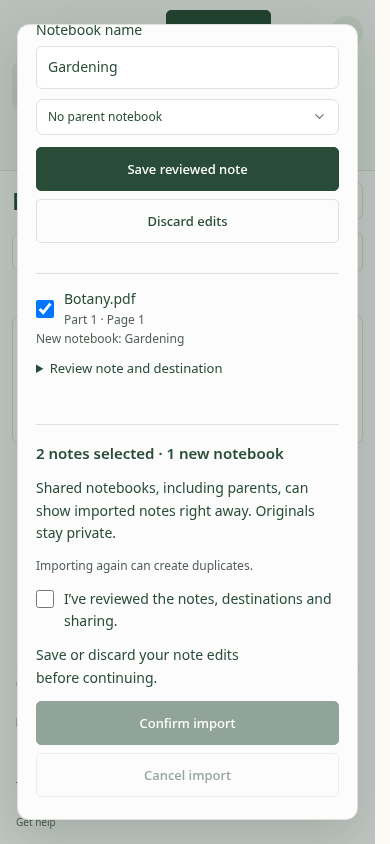
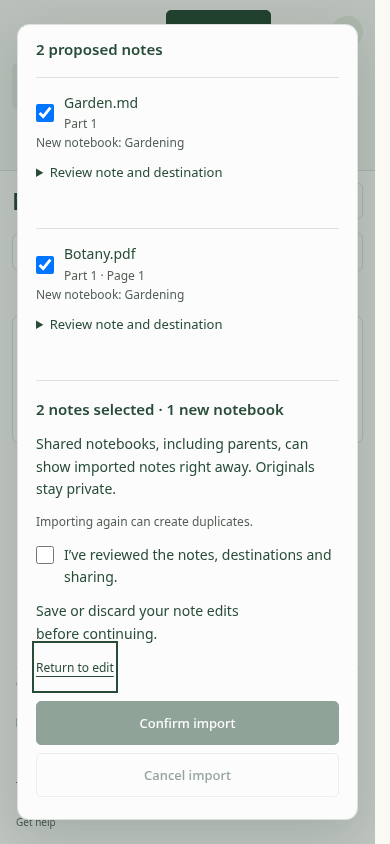
fix(import): return keyboard focus to unsaved reviews

Changed region(s): [[0.0615, 0.0308, 0.8923, 0.8318], [0.4615, 0.7701, 0.6154, 0.8009], [0.8, 0.7085, 0.8308, 0.7393]]

diff --git a/packages/website/tests/imports.spec.ts b/packages/website/tests/imports.spec.ts
@@ -221,16 +221,33 @@ for (const width of [1440, 390, 320])
     });
     const cancelImport = dialog.getByRole("button", { name: "Cancel import" });
     await expect(storageLink).toHaveCount(0);
-    await expect(
-      dialog.getByRole("button", { name: "View files & storage" }),
-    ).toBeDisabled();
     await expect(cancelImport).toBeDisabled();
+    const editor = first.getByRole("textbox", {
+      name: "Content from Garden.md",
+    });
+    await first.locator("summary").click();
+    const consent = dialog.getByLabel(
+      "I’ve reviewed the notes, destinations and sharing.",
+    );
+    await consent.focus();
+    await page.keyboard.press("Tab");
+    const recover = dialog
+      .locator(".import-confirm")
+      .getByRole("button", { name: "Return to edit" });
+    await expect(recover).toBeFocused();
     if (width === 390) {
       await cancelImport.scrollIntoViewIfNeeded();
       await page.screenshot({
         path: testInfo.outputPath("unsaved-review-390.png"),
       });
     }
+    expect(
+      await dialog.evaluate((el) => el.scrollWidth <= el.clientWidth),
+    ).toBe(true);
+    await page.keyboard.press("Enter");
+    await expect(editor).toBeFocused();
+    await expect(editor).toBeInViewport();
+    await expect(editor).toHaveValue(/Check the soil first\./);
     await expect(
       dialog.getByRole("button", { name: "Confirm import", exact: true }),
     ).toBeDisabled();
@@ -242,6 +259,20 @@ for (const width of [1440, 390, 320])
       .click();
     await second.getByRole("combobox").first().click();
     await page.getByRole("option", { name: "Research", exact: true }).click();
+    const topRecovery = dialog
+      .locator(".import-intro")
+      .getByRole("button", { name: "Return to edit" });
+    await topRecovery.focus();
+    const secondEditor = second.getByRole("textbox", {
+      name: "Content from Botany.pdf",
+    });
+    await expect(secondEditor).not.toBeInViewport();
+    await page.keyboard.press("Space");
+    await expect(secondEditor).toBeFocused();
+    await expect(secondEditor).toBeInViewport();
+    await expect(second.getByRole("combobox").first()).toContainText(
+      "Research",
+    );
     await second.getByRole("button", { name: "Save reviewed note" }).click();
     await expect(
       second.getByRole("button", { name: "Save reviewed note" }),

diff --git a/packages/website/src/components/dashboard/import-notes-panel.tsx b/packages/website/src/components/dashboard/import-notes-panel.tsx
@@ -182,7 +182,7 @@ function DraftReview({
         </span>
       </label>
       <p className="import-small">{destinationLabel}</p>
-      <details>
+      <details data-unsaved={dirty || undefined}>
         <summary>Review note and destination</summary>
         <label>
           Note content
@@ -283,6 +283,7 @@ export function ImportNotesPanel({
   const chooser = useRef<HTMLInputElement>(null);
   const chooseFiles = useRef<HTMLButtonElement>(null);
   const intro = useRef<HTMLParagraphElement>(null);
+  const panel = useRef<HTMLDivElement>(null);
   const inFlight = useRef(false);
   const controller = useRef<AbortController | null>(null);
   const upload = useRef<{
@@ -472,13 +473,32 @@ export function ImportNotesPanel({
         {batch.status === "applying" ? "Stop import" : "Cancel import"}
       </Button>
     );
+  const returnToEdit = (
+    <button
+      type="button"
+      className="text-button"
+      disabled={busy}
+      onClick={() => {
+        const review = panel.current?.querySelector<HTMLDetailsElement>(
+          "details[data-unsaved]",
+        );
+        if (!review) return;
+        review.open = true;
+        review.querySelector("textarea")?.focus();
+      }}
+    >
+      Return to edit
+    </button>
+  );
   return (
-    <div className="import-notes">
+    <div className="import-notes" ref={panel}>
       <div className="import-intro">
         <p ref={intro} tabIndex={-1}>
           Review files before saving notes.
         </p>
-        {busy || dirty ? (
+        {dirty ? (
+          returnToEdit
+        ) : busy ? (
           <button type="button" className="text-button" disabled>
             View files &amp; storage
           </button>
@@ -897,9 +917,12 @@ export function ImportNotesPanel({
                 I’ve reviewed the notes, destinations and sharing.
               </label>
               {dirty && (
-                <p role="status">
-                  Save or discard your note edits before continuing.
-                </p>
+                <div>
+                  <p role="status">
+                    Save or discard your note edits before continuing.
+                  </p>
+                  {returnToEdit}
+                </div>
               )}
               <div className="import-actions">
                 <Button

diff --git a/documentation/design/screenshots/note-imports/README.md b/documentation/design/screenshots/note-imports/README.md
@@ -42,6 +42,8 @@ document or model provider is used.
 | ![Desktop import review](review-1440.png) | ![Phone import review](review-390.png) | ![Narrow phone import review](review-320.png) |
 
 [Unsaved review at 390×844](unsaved-review-390.png) shows the save-or-discard
-message with confirmation and cancellation disabled. Captured in the Chromium
-dashboard fixture on `3001fd90` with the navigation fix, production CSS and
+message with **Return to edit** focused and confirmation and cancellation disabled.
+The keyboard journey reopens a collapsed editor and reaches an offscreen editor
+without losing its selected destination. Captured in the Chromium
+dashboard fixture on `5adf6ba4` with the recovery action, production CSS and
 synthetic review data. No live account or document parser was used.

diff --git a/documentation/imports.md b/documentation/imports.md
@@ -22,7 +22,8 @@ placement control; apply it explicitly before confirmation.
    such as UTF-8 BOM and original line endings; extracted text normalizes line endings.
 3. Exclude unwanted notes, edit their content and choose destinations. Save or
    discard local edits before opening Files & storage, cancelling the import,
-   or closing the dialog. Unsaved local edits
+   or closing the dialog. **Return to edit** at the top or bottom of the review
+   opens and focuses the first note with unsaved edits. Unsaved local edits
    are not persisted across a browser crash; successfully saved previews are.
 4. Optionally choose **Suggest organization**. This uses the existing generation
    provider, notebook-filing preference and generation allowance. Suggestions may
